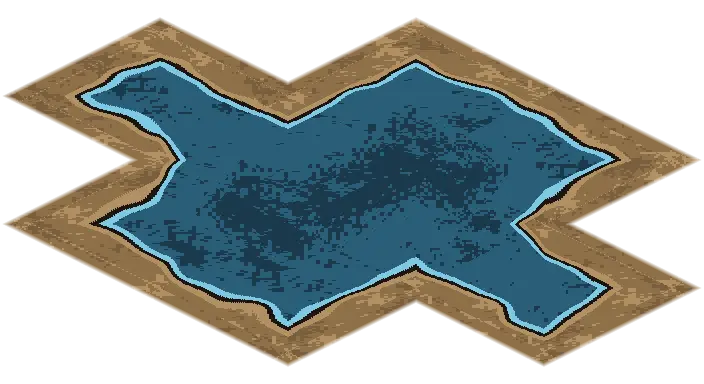
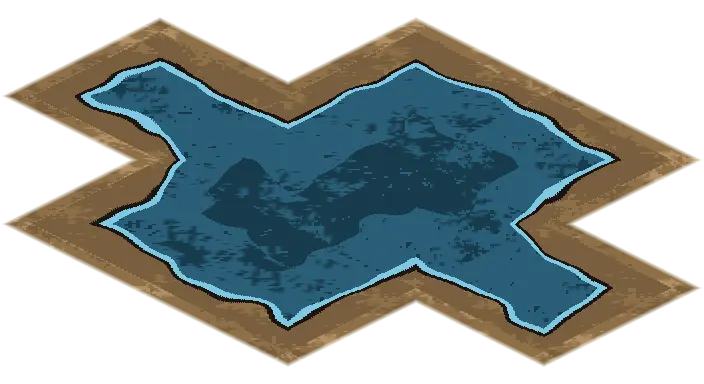
art: darken the pond bank under the water film and pool the deep bed
Under the film the bank is now the damp margin one step darker, and its pale rim is no longer painted there. That rim was what read as the top of a curb. The deep bed tone now covers one pool whose edge wanders where the depth's smoothstep clears a smooth noise field, instead of being dithered in 4 px clumps, and the two comments that disagreed are replaced by one. The packer reports the dry margin, the wet bank and the bed as separate means.

diff --git a/scripts/art/forest-shoreline.ts b/scripts/art/forest-shoreline.ts
@@ -20,16 +20,15 @@
  * pond's margin was the odd material on a board whose road and verges had
  * already been re-keyed to the village's hand. Both now come from
  * `forest-village-material.ts`, in the DL-2 §3 water-margin key: the bank is
- * the **damp margin** `#8e7049` over the road's own packed-earth shadow, the
- * bed is `#2a5e77` falling to a deeper second flat tone, the wet line carries
- * the bible's `#1b1410` ink with the §3 `#7ec8e3` edge on its wet side and the
- * bank's pale rim on its dry one. Two flat tones per material, no gradient; the
- * bed's depth is spent on *which* of its two tones a pixel takes, never on
- * blending them, exactly as the route plate spends its feather.
+ * the **damp margin** `#8e7049` over the road's own packed-earth shadow, gone
+ * a step darker where the water film covers it; the bed is `#2a5e77` falling
+ * to a deeper second flat tone; and the wet line carries the bible's `#1b1410`
+ * ink with the §3 `#7ec8e3` edge on its wet side. Two flat tones per material,
+ * no gradient; the bed's depth is spent on *which* of its two tones a pixel
+ * takes, never on blending them, exactly as the route plate spends its feather.
  */
 import { mkdirSync, writeFileSync } from 'node:fs';
 import { FOREST_POND_PATCH, FOREST_WATER_CELLS } from '../../src/content/scenes/forestRoad';
-import { tileNoise } from '../../src/render/painters/shapes';
 import { newImage, parseHex, setPixel, writePng } from './lib/image';
 import { encodeWebp } from './lib/webp';
 import {
@@ -49,7 +48,7 @@ export const BITE_FEATHER = 0.05;
 export const BITE_FLOOR = 0.3;
 /** How far in the bed reaches its deep tone, in cells, and over what band. */
 export const BED_DEEP_AT = 0.75;
-export const BED_DEEP_BAND = 0.3;
+export const BED_DEEP_BAND = 0.6;
 /**
  * The bible's uniform ink and the thin rim beside it, in logical cells. One
  * step of a tile across either kind of cell edge is `hypot(64, 32)` screen
@@ -121,26 +120,18 @@ const smooth = (t: number): number => {
 /**
  * Whether a wet point takes the bed's deep tone rather than its shelf tone.
  *
- * The decision is the smoothstep of how far the point sits inside the water,
- * resolved per pixel against a hash: the *share* of deep pixels rises across
- * `BED_DEEP_BAND`, so the pond visibly deepens, but every pixel is still one of
- * exactly two flat tones and no intermediate key is ever written. The village
- * lawn's own incident then flips the class in its minority share, which leaves
- * silt flecks on the shelf and pale submerged stones in the deep.
+ * The deep tone's territory is a pool whose edge wanders across
+ * `BED_DEEP_BAND`: a point is deep where its depth, as a smoothstep across the
+ * band, clears a smooth value-noise field. The field is continuous and sampled
+ * in cell space on whole-number frequencies, so the boundary is one wandering
+ * line rather than a dither — no pixel, clump or hash decides it on its own —
+ * and every pixel is still one of exactly two flat tones. The village lawn's
+ * own incident then flips the class in its minority share, which leaves silt
+ * flecks on the shelf and pale submerged stones in the deep.
  */
-export function bedIsDeep(
-  material: ForestMaterial,
-  x: number,
-  y: number,
-  px: number,
-  py: number,
-  inside: number,
-): boolean {
+export function bedIsDeep(material: ForestMaterial, x: number, y: number, inside: number): boolean {
   const band = smooth((inside - BED_DEEP_AT) / BED_DEEP_BAND + 0.5);
-  // Resolved over four-pixel clumps rather than per pixel: a per-pixel draw is
-  // a dither, and a dither is a gradient with extra steps. At this density a
-  // clump is two world pixels, so the shelf breaks into silt rather than noise.
-  const deep = tileNoise(px >> 2, py >> 2, 11) < band;
+  const deep = band > shoreNoise(x * 3 + 7, y * 3 + 5);
   return deep !== (material.classOf('bed', x, y) === 'shadow');
 }
 
@@ -190,6 +181,10 @@ export function packShoreline(material: ForestMaterial) {
     deep: parseHex(FOREST_PIECE_TONES.bed.shadow),
     edge: parseHex(FOREST_PIECE_TONES.bed.rim),
   };
+  const wetBank = {
+    field: parseHex(FOREST_PIECE_TONES.margin.shadow),
+    lifted: parseHex(FOREST_PIECE_TONES.margin.base),
+  };
   let bitePixels = 0,
     deepestBitePixels = 0,
     bedPixels = 0,
@@ -197,12 +192,14 @@ export function packShoreline(material: ForestMaterial) {
     inkPixels = 0;
   /*
    * Per-material means, in the same Rec. 709 luma `forest-ground-measure.ts`
-   * reads. The plate holds two materials that are supposed to differ — damp
-   * earth and water-covered bed — so its whole-plate window span is a
-   * wet-against-dry step, not the baked ramp the DL-2 §3 bar is aimed at.
-   * These are the numbers that say whether either material itself has drifted.
+   * reads. The plate holds materials that are supposed to differ — the damp
+   * margin on dry ground, the same margin gone wet under the film, and the
+   * bed — so its whole-plate window span is a wet-against-dry step, not the
+   * baked ramp the DL-2 §3 bar is aimed at. These are the numbers that say
+   * whether any one of them has drifted; `dry` is the one the route's tone
+   * band applies to.
    */
-  const bands = { dry: { n: 0, sum: 0 }, bed: { n: 0, sum: 0 } };
+  const bands = { dry: { n: 0, sum: 0 }, bank: { n: 0, sum: 0 }, bed: { n: 0, sum: 0 } };
   const record = (band: { n: number; sum: number }, rgb: readonly number[]): void => {
     band.n++;
     band.sum += 0.2126 * (rgb[0] ?? 0) + 0.7152 * (rgb[1] ?? 0) + 0.0722 * (rgb[2] ?? 0);
@@ -239,21 +236,23 @@ export function packShoreline(material: ForestMaterial) {
           inkPixels++;
         } else if (fromLine > 0 && fromLine < INK_HALF + RIM_WIDTH) {
           rgb = bed.edge;
-        } else if (fromLine < 0 && -fromLine < INK_HALF + RIM_WIDTH) {
-          rgb = material.rimOf('margin');
         } else if (dryInside) {
-          rgb = material.colour('margin', x, y);
+          // The bank under the film is wet, so it is the damp margin a step
+          // darker: its shadow as the field, its base where the lawn's rhythm
+          // lifts a patch. The pale rim stays on dry ground; under the film it
+          // read as the lit top of a curb rather than as a bank going under.
+          rgb = material.classOf('margin', x, y) === 'rim' ? wetBank.lifted : wetBank.field;
         } else {
-          rgb = bedIsDeep(material, x, y, px, py, inside) ? bed.deep : bed.shelf;
+          rgb = bedIsDeep(material, x, y, inside) ? bed.deep : bed.shelf;
         }
         if (dryInside) {
           bitePixels++;
-          record(bands.dry, rgb);
+          record(bands.bank, rgb);
           if (inside > SHORE_BITE * 0.75) deepestBitePixels++;
         } else {
           bedPixels++;
           record(bands.bed, rgb);
-          if (inside > BED_DEEP_AT + BED_DEEP_BAND / 2) deepBedPixels++;
+          if (rgb === bed.deep) deepBedPixels++;
         }
       } else {
         // Nothing lies under this band, outside the water: it keeps the damp
@@ -276,6 +275,7 @@ export function packShoreline(material: ForestMaterial) {
     deepBedPixels,
     inkPixels,
     dryMean: bands.dry.n ? bands.dry.sum / bands.dry.n : 0,
+    bankMean: bands.bank.n ? bands.bank.sum / bands.bank.n : 0,
     bedMean: bands.bed.n ? bands.bed.sum / bands.bed.n : 0,
   };
 }
@@ -296,6 +296,7 @@ export async function main() {
     deepBedPixels: result.deepBedPixels,
     inkPixels: result.inkPixels,
     dryMean: Number(result.dryMean.toFixed(1)),
+    bankMean: Number(result.bankMean.toFixed(1)),
     bedMean: Number(result.bedMean.toFixed(1)),
   });
 }

diff --git a/scripts/art/forest-shoreline.test.ts b/scripts/art/forest-shoreline.test.ts
@@ -150,10 +150,20 @@ it('keeps the bank, its wandering bite and the opaque bed of ADR 0045', () => {
   const mean = (b: { n: number; sum: number }): number => b.sum / b.n;
   expect(mean(band.shelf)).toBeLessThan(mean(band.bank) * 0.85);
   expect(mean(band.deep)).toBeLessThan(mean(band.shelf) * 0.8);
-  // The wet line: ink, with the §3 edge on its wet side and the margin's pale
-  // rim on its dry one, so the bite's inner sliver runs pale to dark outward.
+  // The wet line: ink, with the §3 edge on its wet side and the wet bank on
+  // its dry one, so the bite's inner sliver darkens into the line.
   expect(mean(band.featherOuter)).toBeGreaterThan(mean(band.featherInner));
   expect(BED_DEEP_AT).toBeGreaterThan(BED_DEEP_BAND / 2);
+  // Under the water film the bank is the damp margin gone a step darker: its
+  // pale rim, which read as the lit top of a curb there, is never painted.
+  let paleUnderFilm = 0;
+  for (let py = 0; py < image.height; py++)
+    for (let px = 0; px < image.width; px++) {
+      if ((inset[py * image.width + px] ?? 0) <= 0) continue;
+      const hex = toHex(pixelAt(image, px, py).slice(0, 3));
+      if (hex === FOREST_PIECE_TONES.margin.rim) paleUnderFilm++;
+    }
+  expect(paleUnderFilm).toBe(0);
   // Every real water centre carries bed, and muted bed at that: the middle of
   // a tile is never dry bank, and never the brightest thing in the pond.
   for (const { x, y } of FOREST_WATER_CELLS) {
